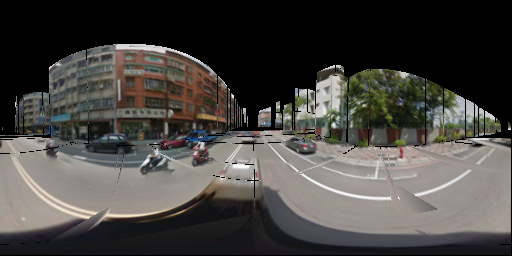
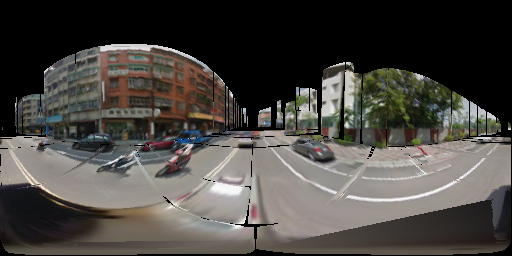
readme

diff --git a/example/novel_view/view_18.py b/example/novel_view/view_18.py
@@ -1,14 +1,14 @@
 #!/usr/bin/python3
 # ==============================================================
-# viewpoint systhesis with planeJoints
+# viewpoint systhesis with planeJoints and continuous
 # ==============================================================
 import numpy as np
-import sys
 import scipy.misc
 from sklearn.decomposition import PCA
 import triangle
 import scipy.ndimage
 
+import sys
 sys.path.append('/home/andy/Documents/gitHub/DashCam_python/module')  # use the module under 'module'
 import file_process
 import dashcam_parse
@@ -18,23 +18,27 @@ import base_process
 
 
 sleIndex = 3
-createSV = True
 createSFM = False
+createSV = True
 needAlign = True
 needMatchInfo3d = True
 needGround = False
 addPlane = False
 planeJoints = False
 needVisual = True
+needPerspective = False
 imageSynthesis = True
-needTexture = True
+needTexture = False
 mapType = '_trajectory'  # [_info3d, _trajectory]
-randomPos = [0, 10, 0]
-randomDeg = 0
+offsetPos = [0.2569, 7.7, 0]
+offsetDeg = 0
 texture_height, texture_width = 256.0, 512.0
 
 # Create dashCamFileProcess and load 50 top Dashcam
 dashCamFileProcess = file_process.DashCamFileProcessor()
+#for yo in range(0, 10):
+#    offsetPos = [0.367 + yo*(0.616 - 0.367)/10, 11.0 + yo*(18.0 - 11.0)/10.0, 0]
+#    print(offsetPos)
 """
 Process the select file
 """
@@ -44,8 +48,8 @@ for fileIndex in range(sleIndex, sleIndex+1):
     """
     Create the sfm point cloud
     """
-    sfm3DRegion = dashcam_parse.SFM3DRegion(fileID)
     if createSFM:
+        sfm3DRegion = dashcam_parse.SFM3DRegion(fileID)
         programSFM3DRegion = glumpy_setting.ProgramSFM3DRegion(data=sfm3DRegion.ptcloudData, name='ProgramSFM3DRegion',
                                                                point_size=1, matrix=sfm3DRegion.matrix)
         programTrajectory = glumpy_setting.ProgramTrajectory(data=sfm3DRegion.trajectoryData, name='programTrajectory',
@@ -65,7 +69,7 @@ for fileIndex in range(sleIndex, sleIndex+1):
     sv3DRegion.init_region(anchor=anchor)
     if createSV:
         sv3DRegion.create_topoloy()
-        sv3DRegion.create_region_time(start=8, end=9)
+        sv3DRegion.create_region_time(start=8, end=11)
         # sv3DRegion.create_region()
         pano_length = len(sv3DRegion.panoramaList)
         anchor_inv = np.linalg.inv(sv3DRegion.anchorMatrix)
@@ -86,7 +90,7 @@ for fileIndex in range(sleIndex, sleIndex+1):
                 pano_ori = np.dot(zero_vec, sv3D.matrix_local)
                 pano_ori = np.dot(pano_ori, anchor_inv)
                 pano_ori_set[i] = pano_ori[:3]
-                dis_vec = (pano_ori[:3]) - randomPos
+                dis_vec = (pano_ori[:3]) - offsetPos
                 dis_len_set[i] = np.linalg.norm(dis_vec)
                 if i == (pano_length-1):
                     nearest_pano_idx = np.argmin(dis_len_set)
@@ -105,6 +109,75 @@ for fileIndex in range(sleIndex, sleIndex+1):
                 data = np.concatenate((data, sv3D.ptCLoudData[np.nonzero(sv3D.non_con)]), axis=0)
                 dataGnd = np.concatenate((data, sv3D.ptCLoudData[np.nonzero(sv3D.gnd_con)]), axis=0)
 
+            if needPerspective:
+                ori_pano = sv3D.panorama / 255.0
+                pano_height, pano_width = ori_pano.shape[0], ori_pano.shape[1]  # Actually, this must be 1:2
+                perspective_height, perspective_width = int(pano_height/4), int(pano_width/4)
+                perspective_90_set = []
+                #randomDeg = - sv3D.yaw
+                for degree in range(0, 360, 90):
+                    perspective_90 = np.zeros((perspective_height, perspective_width, 3))
+                    for p_y in range(0, perspective_height):
+                        for p_x in range(0, perspective_width):
+                            x = p_x - perspective_width/2
+                            z = -p_y + perspective_height/2
+                            y = perspective_height
+                            lng, lat = base_process.pos_2_deg(x, y, z)
+
+                            lng = (lng + degree + offsetDeg) % 360
+                            img_x = lng / 360.0 * pano_width
+                            img_y = -(lat - 90) / 180.0 * pano_height
+
+                            img_pos0_x = np.floor(img_x)
+                            img_pos0_y = np.floor(img_y)
+
+                            img_pos_diff_x = img_x - img_pos0_x
+                            img_pos_diff_y = img_y - img_pos0_y
+
+                            img_pos1_x = img_pos0_x + 1
+                            img_pos1_y = img_pos0_y
+
+                            img_pos2_x = img_pos0_x
+                            img_pos2_y = img_pos0_y + 1
+
+                            img_pos3_x = img_pos0_x + 1
+                            img_pos3_y = img_pos0_y + 1
+
+                            if img_pos1_x == pano_width:
+                                img_pos1_x = pano_width - 1
+                            if img_pos3_x == pano_width:
+                                img_pos3_x = pano_width - 1
+                            if img_pos2_y == pano_height:
+                                img_pos2_y = pano_height - 1
+                            if img_pos3_y == pano_height:
+                                img_pos3_y = pano_height - 1
+
+                            img_ratio0 = (1-img_pos_diff_x) * (1-img_pos_diff_y)
+                            img_ratio1 = img_pos_diff_x * (1-img_pos_diff_y)
+                            img_ratio2 = (1-img_pos_diff_x) * img_pos_diff_y
+                            img_ratio3 = img_pos_diff_x * img_pos_diff_y
+
+                            img_color0 = ori_pano[img_pos0_y, img_pos0_x, :]
+                            img_color1 = ori_pano[img_pos1_y, img_pos1_x, :]
+                            img_color2 = ori_pano[img_pos2_y, img_pos2_x, :]
+                            img_color3 = ori_pano[img_pos3_y, img_pos3_x, :]
+
+                            img_color = img_ratio0*img_color0 + img_ratio1*img_color1 + \
+                                        img_ratio2*img_color2 + img_ratio3*img_color3
+
+
+                            perspective_90[p_y, p_x, :] = img_color
+
+                    scipy.misc.imsave(sv3D.panoMeta['panoId'] + '_' + str(degree) + '.png', perspective_90)
+                    #scipy.misc.imshow(perspective_90)
+                    perspective_90_set.append(perspective_90)
+                    #break
+
+                #perspective_90_visual_0 = np.hstack(
+                #    (perspective_90_set[3], perspective_90_set[0], perspective_90_set[1], perspective_90_set[2]))
+                #perspective_90_visual = np.vstack((ori_pano, perspective_90_visual_0))
+                #scipy.misc.imshow(perspective_90_visual)
+
             if imageSynthesis and i == nearest_pano_idx:
                 # Visualize which panorama is the closet
                 if needVisual:
@@ -112,7 +185,7 @@ for fileIndex in range(sleIndex, sleIndex+1):
                     dataNearest['a_color'] = [0, 1, 0]
                     dataNearest['a_color'][nearest_pano_idx] = [1, 1, 0]
                     dataNearest['a_position'][0:-1] = pano_ori_set
-                    dataNearest['a_position'][-1] = randomPos
+                    dataNearest['a_position'][-1] = offsetPos
                     dataNearest['a_color'][-1] = [1, 0, 0]
                 # Calculate synthesis view
                 syn_pano = np.zeros((texture_height, texture_width, 3), dtype=np.float32)
@@ -149,7 +222,7 @@ for fileIndex in range(sleIndex, sleIndex+1):
                     for point in sel:
                         if np.isnan(point['a_position']).any():
                             continue
-                        x, y, z = point['a_position'] - np.array(randomPos)
+                        x, y, z = point['a_position'] - np.array(offsetPos)
                         if needTexture:
                             if x < 0 and y < 0:
                                 phase3 = True
@@ -161,7 +234,7 @@ for fileIndex in range(sleIndex, sleIndex+1):
                                     crossPhase = True
                         lng, lat = base_process.pos_2_deg(x, y, z)
 
-                        lng = (lng + randomDeg) % 360
+                        lng = (lng + offsetDeg) % 360
                         img_x = int(lng / 360.0 * texture_width)
                         img_y = int(-(lat - 90) / 180.0 * texture_height)
                         syn_pano[img_y, img_x, :] = point['a_color']

diff --git a/README.md b/README.md
@@ -1,7 +1,22 @@
 # DashCam_python
 A project about dashcam implemented by Python
+- [project page](http://ydnaandy123.github.io/DashCam_python/)
 - [paper on eccv'16 workshop](http://link.springer.com/chapter/10.1007/978-3-319-46604-0_10)
 - [intro video](https://www.youtube.com/watch?v=qeIMMk8E17o)
+
+## Reference
+- [Google Street View: Capturing the World at Street Level](https://research.google.com/pubs/pub36899.html)
+- [3D City Reconstruction From Google Street View](https://www.evl.uic.edu/entry.php?id=2179)
+- [Urban Jungle](http://inear.se/urbanjungle)
+- [Extract depth maps from Google Street View](https://0xef.wordpress.com/2013/05/01/extract-depth-maps-from-google-street-view/)
+- [HyperlapseMB: Hyperlapse.js with Motion Blur](https://0xef.wordpress.com/2013/05/01/hyperlapsemb-hyperlapse-js-with-motion-blur/)
+- [GSVPano](https://github.com/konforti/GSVPano)
+- [GSVPanoDepth](https://github.com/proog128/GSVPanoDepth.js/tree/master)
+- [Google uses World Geodetic System WGS84 standard](https://developers.google.com/maps/documentation/javascript/maptypes)
+- [ECEF](https://en.wikipedia.org/wiki/ECEF)
+- [WGS84](https://en.wikipedia.org/wiki/Geodetic_datum)
+- [coordinate transfer](http://w3.uch.edu.tw/ccchang50/crd_trsnafer.pdf)
+- [Google StreetViewPov POV heading](https://developers.google.com/maps/documentation/javascript/streetview#StreetViewLocation)
 
 ## Current pipeline
 1. Fetch the Google data (Use info_3d)
